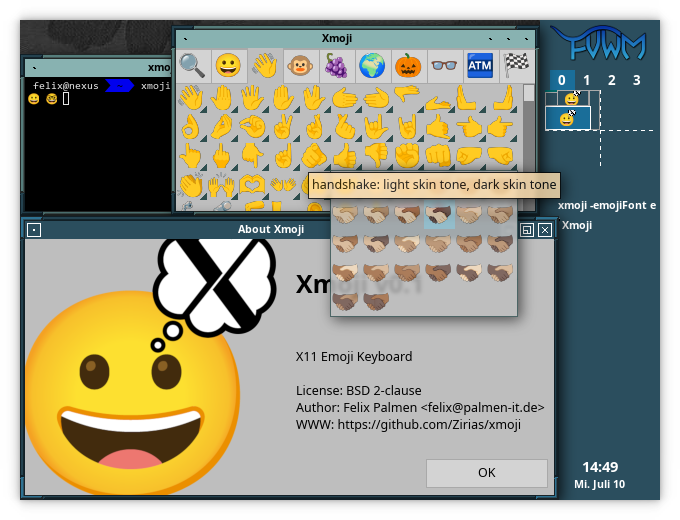
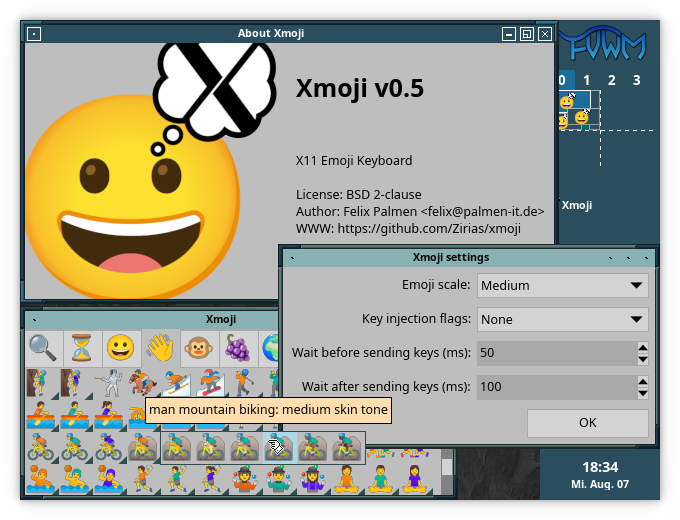
README.md: Document settings, update screenshot

diff --git a/README.md b/README.md
@@ -118,10 +118,10 @@ names. The following colors are available:
 
 ### Example
 
-The following X resources configure a larger default emoji font, a
-slightly larger scroll bar and a dark color scheme:
+The following X resources configure a different emoji font, a slightly larger
+scroll bar and a dark color scheme:
 
-    Xmoji*emojiFont: emoji:pixelsize=24
+    Xmoji*emojiFont: Twitter Color Emoji
     Xmoji*Foreground: #c8c6c5
     Xmoji*Background: #211f1d
     Xmoji*Border: #191210
@@ -140,8 +140,7 @@ slightly larger scroll bar and a dark color scheme:
 
 ## Runtime configuration
 
-Runtime configuration is work in progress, currently only the history of
-recently used emojis is stored in the configuration file. This file is
+Runtime configuration is stored in a configuration file. This file is
 automatically monitored for external changes.
 
 By default, Xmoji will use a configuration file in these places:
@@ -158,6 +157,13 @@ with `-cfg`, e.g.
 
 CAUTION: Xmoji will attempt to create missing directories for storing its
 runtime configuration.
+
+The file stores everything available in the Settings dialog, which you can
+access by right-clicking in the window, outside of an Emoji with a fly-out.
+The settings are described in the dialog using tooltips.
+
+Additionally, the history of recently used emojis is also stored in the
+configuration file.
 
 ## Building
 
